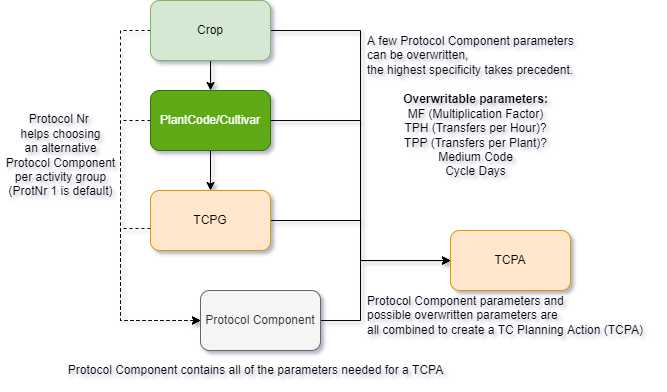
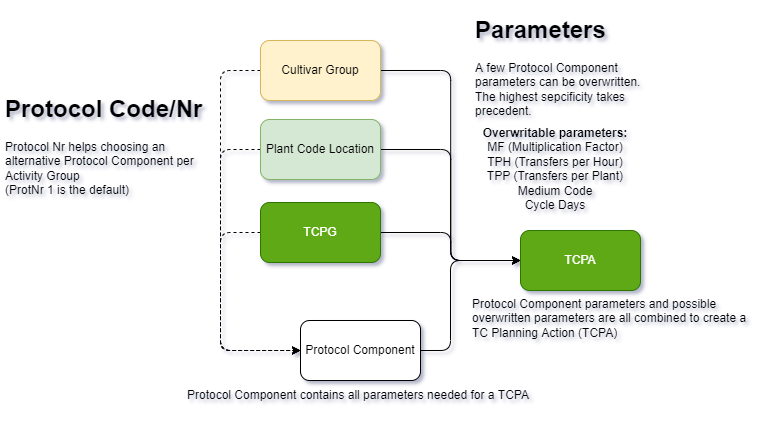
Update beslissingboom
Replaced Crop with Cultivar Group in both the visual and the text.

diff --git a/docs/Tissue_Culture/TC Parameters.md b/docs/Tissue_Culture/TC Parameters.md
@@ -1,7 +1,7 @@
 Choosing parameters to use in the Planning actions follows a 'decision tree' with varying specificities. The following tables are used (from low to high specificity):
 
-1. Crop
-2. Cultivar (in table PlantCode Loc for now)
+1. Cultivar Group
+2. Plant Code Location
 3. TC_Plan_Group
 
 The most important parameters can be specifically set here for a specific Activity Group
@@ -20,6 +20,6 @@ The code (will) search for protocol components with protocol code 1, and a speci
 This means, that if you have an activity like CA (multiplication), and need to use a different Protocol Component (protocol code 2) for a specific cultivar, all your other T1 activities will also prioritize the protocol component with protocol code 2! This is by design because the alternative would be having many records in protocol component with a lot of extra fields for Cultivar, PlantCode and TCPG which is impossible to manage properly.
 
 ![](beslissingsboom.png)
-::: info
+:::info
 The decision tree is still in development. Not all functionality described here is (fully) implemented.
 :::
